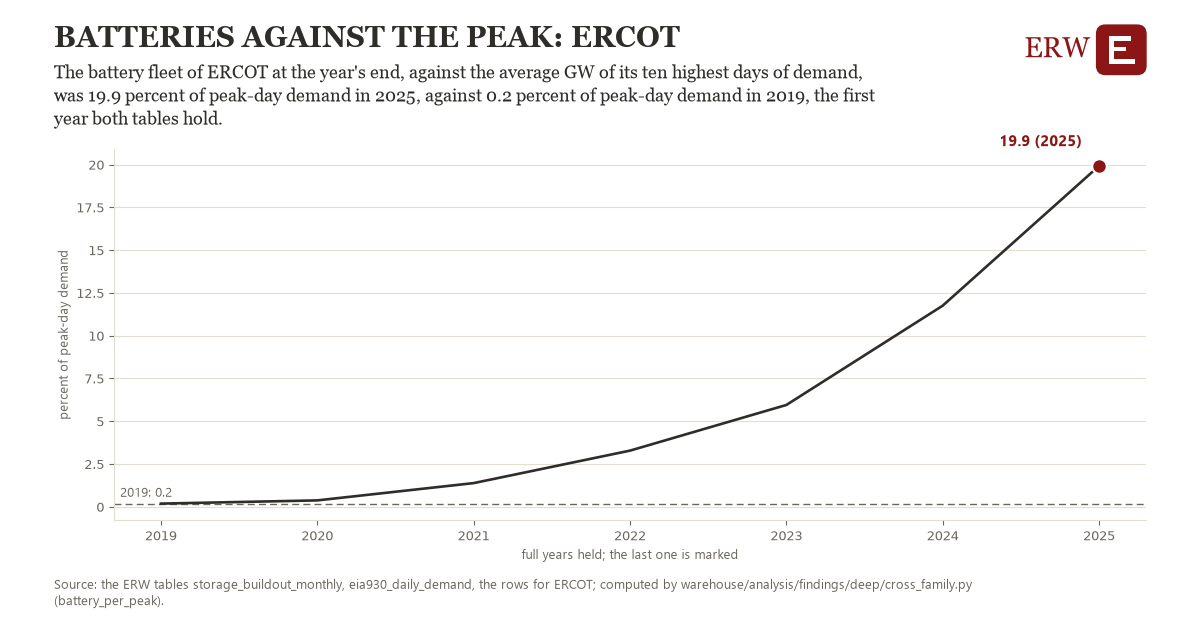
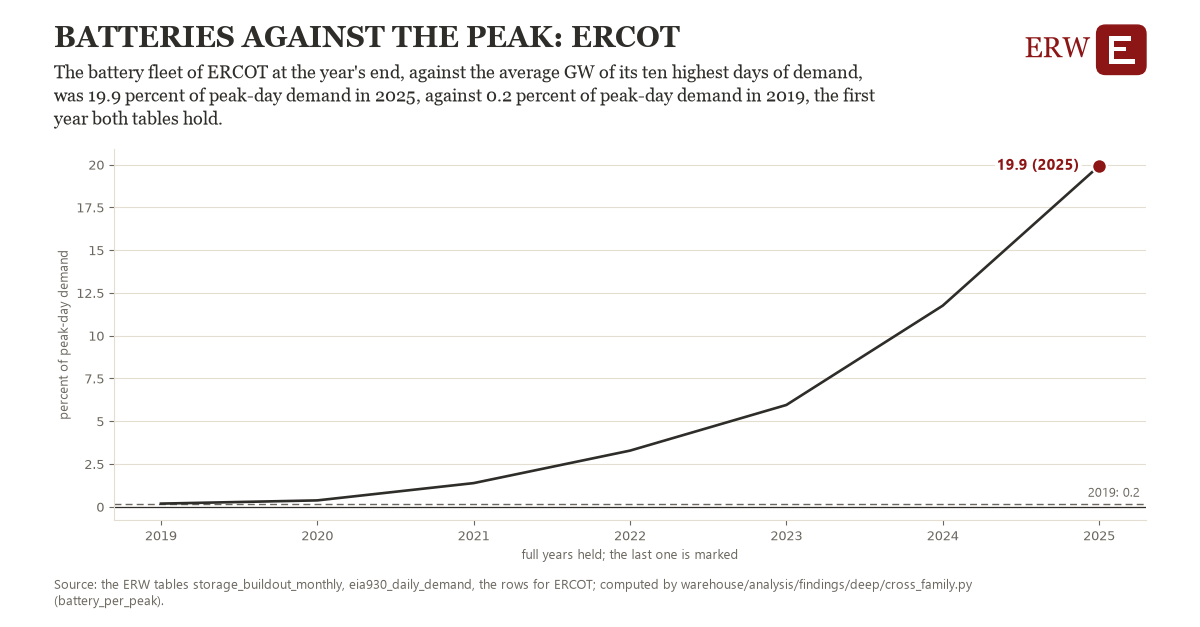
Session 9821: findings charts 281 to 290 drawn again (part 3); drafts stay drafts

Changed region(s): [[0.0925, 0.7576, 0.9558, 0.8182], [0.8325, 0.2121, 0.8942, 0.2727]]

diff --git a/docs/reviews/findings-charts-2026-11-20.md b/docs/reviews/findings-charts-2026-11-20.md
@@ -301,5 +301,15 @@ Energy Research Warehouse (ERW). Written by the desktop's fourth window, session
 | 278 | [regions/gas-share-st-sw-ng](https://github.com/SamuelEnrique/erw/blob/main/docs/findings/regions/gas-share-st-sw-ng.png) | 3 (passed the audit) | the first year's label (2001: 14.4) sat on the line; the marked figure (40.5 (2025)) sat on the line | drawn again: label moved clear of the line; the image's figure 40.5 is the draft's |
 | 279 | [queues_deals_datacenters/hosting-jobs-jobs518-us](https://github.com/SamuelEnrique/erw/blob/main/docs/findings/queues_deals_datacenters/hosting-jobs-jobs518-us.png) | 3 (passed the audit) | the first year's label (2012: 433,438) sat on the line | drawn again: label moved clear of the line; the image's figure 629,527 is the draft's |
 | 280 | [trade/pair-against-summer-rp-can-ny](https://github.com/SamuelEnrique/erw/blob/main/docs/findings/trade/pair-against-summer-rp-can-ny.png) | 3 (passed the audit) | no ink zero line (docs/brand.md, section 6), though zero is on the scale | drawn again: ink zero line drawn; the image's figure 49.8 is the draft's |
+| 281 | [oil_products_world/import-share-imp-ni](https://github.com/SamuelEnrique/erw/blob/main/docs/findings/oil_products_world/import-share-imp-ni.png) | 3 (passed the audit) | the first year's label (1973: 13.8) sat on the line; no ink zero line (docs/brand.md, section 6), though zero is on the scale; the marked year 2025 had no label on the axis | drawn again: label moved clear of the line; ink zero line drawn; axis labels counted back from the marked year; the image's figure 2.2 is the draft's |
+| 282 | [coal_uranium_metals/coal-sulfur-cs-us](https://github.com/SamuelEnrique/erw/blob/main/docs/findings/coal_uranium_metals/coal-sulfur-cs-us.png) | 3 (passed the audit) | the first year's label (2008: 0.89) sat on the line; the marked year 2025 had no label on the axis | drawn again: label moved clear of the line; axis labels counted back from the marked year; the image's figure 1.12 is the draft's |
+| 283 | [other_us/util-commercial-price-u861-13756-in](https://github.com/SamuelEnrique/erw/blob/main/docs/findings/other_us/util-commercial-price-u861-13756-in.png) | 3 (passed the audit) | nothing found | drawn again by the fixed code; the image's figure 192.4 is the draft's |
+| 284 | [prices/carb-allowance-price-us-ca-allowance](https://github.com/SamuelEnrique/erw/blob/main/docs/findings/prices/carb-allowance-price-us-ca-allowance.png) | 3 (passed the audit) | the marked figure (28.05 (2025)) sat on the line | drawn again: label moved clear of the line; the image's figure 28.05 is the draft's |
+| 285 | [coal_uranium_metals/coal-basin-share-cb-illinois-basin](https://github.com/SamuelEnrique/erw/blob/main/docs/findings/coal_uranium_metals/coal-basin-share-cb-illinois-basin.png) | 3 (passed the audit) | the first year's label (2008: 9.4) sat on the line; the marked figure (14.1 (2025)) sat on the line; the marked year 2025 had no label on the axis | drawn again: label moved clear of the line; axis labels counted back from the marked year; the image's figure 14.1 is the draft's |
+| 286 | [other_us/util-commercial-price-u861-15500-wa](https://github.com/SamuelEnrique/erw/blob/main/docs/findings/other_us/util-commercial-price-u861-15500-wa.png) | 3 (passed the audit) | nothing found | drawn again by the fixed code; the image's figure 156.6 is the draft's |
+| 287 | [cross_family/battery-per-peak-ercot-bat-peak](https://github.com/SamuelEnrique/erw/blob/main/docs/findings/cross_family/battery-per-peak-ercot-bat-peak.png) | 3 (passed the audit) | no ink zero line (docs/brand.md, section 6), though zero is on the scale | drawn again: ink zero line drawn; the image's figure 19.9 is the draft's |
+| 288 | [coal_uranium_metals/underground-share-us-underground](https://github.com/SamuelEnrique/erw/blob/main/docs/findings/coal_uranium_metals/underground-share-us-underground.png) | 3 (passed the audit) | the marked year 2024 had no label on the axis | drawn again: axis labels counted back from the marked year; the image's figure 40.2 is the draft's |
+| 289 | [emissions_climate/ghg-onshore-basin-ghgon-345](https://github.com/SamuelEnrique/erw/blob/main/docs/findings/emissions_climate/ghg-onshore-basin-ghgon-345.png) | 3 (passed the audit) | the marked figure (0.51 (2023)) sat on the line | drawn again: label moved clear of the line; the image's figure 0.51 is the draft's |
+| 290 | [oil_products_world/diesel-premium-us-diesel-premium](https://github.com/SamuelEnrique/erw/blob/main/docs/findings/oil_products_world/diesel-premium-us-diesel-premium.png) | 3 (passed the audit) | the first year's label (1995: -0.002) sat on the line; the marked figure (0.563 (2025)) sat on the line; no ink zero line (docs/brand.md, section 6), though zero is on the scale | drawn again: label moved clear of the line; ink zero line drawn; the image's figure 0.563 is the draft's |
 
-280 charts so far.
+290 charts so far.
